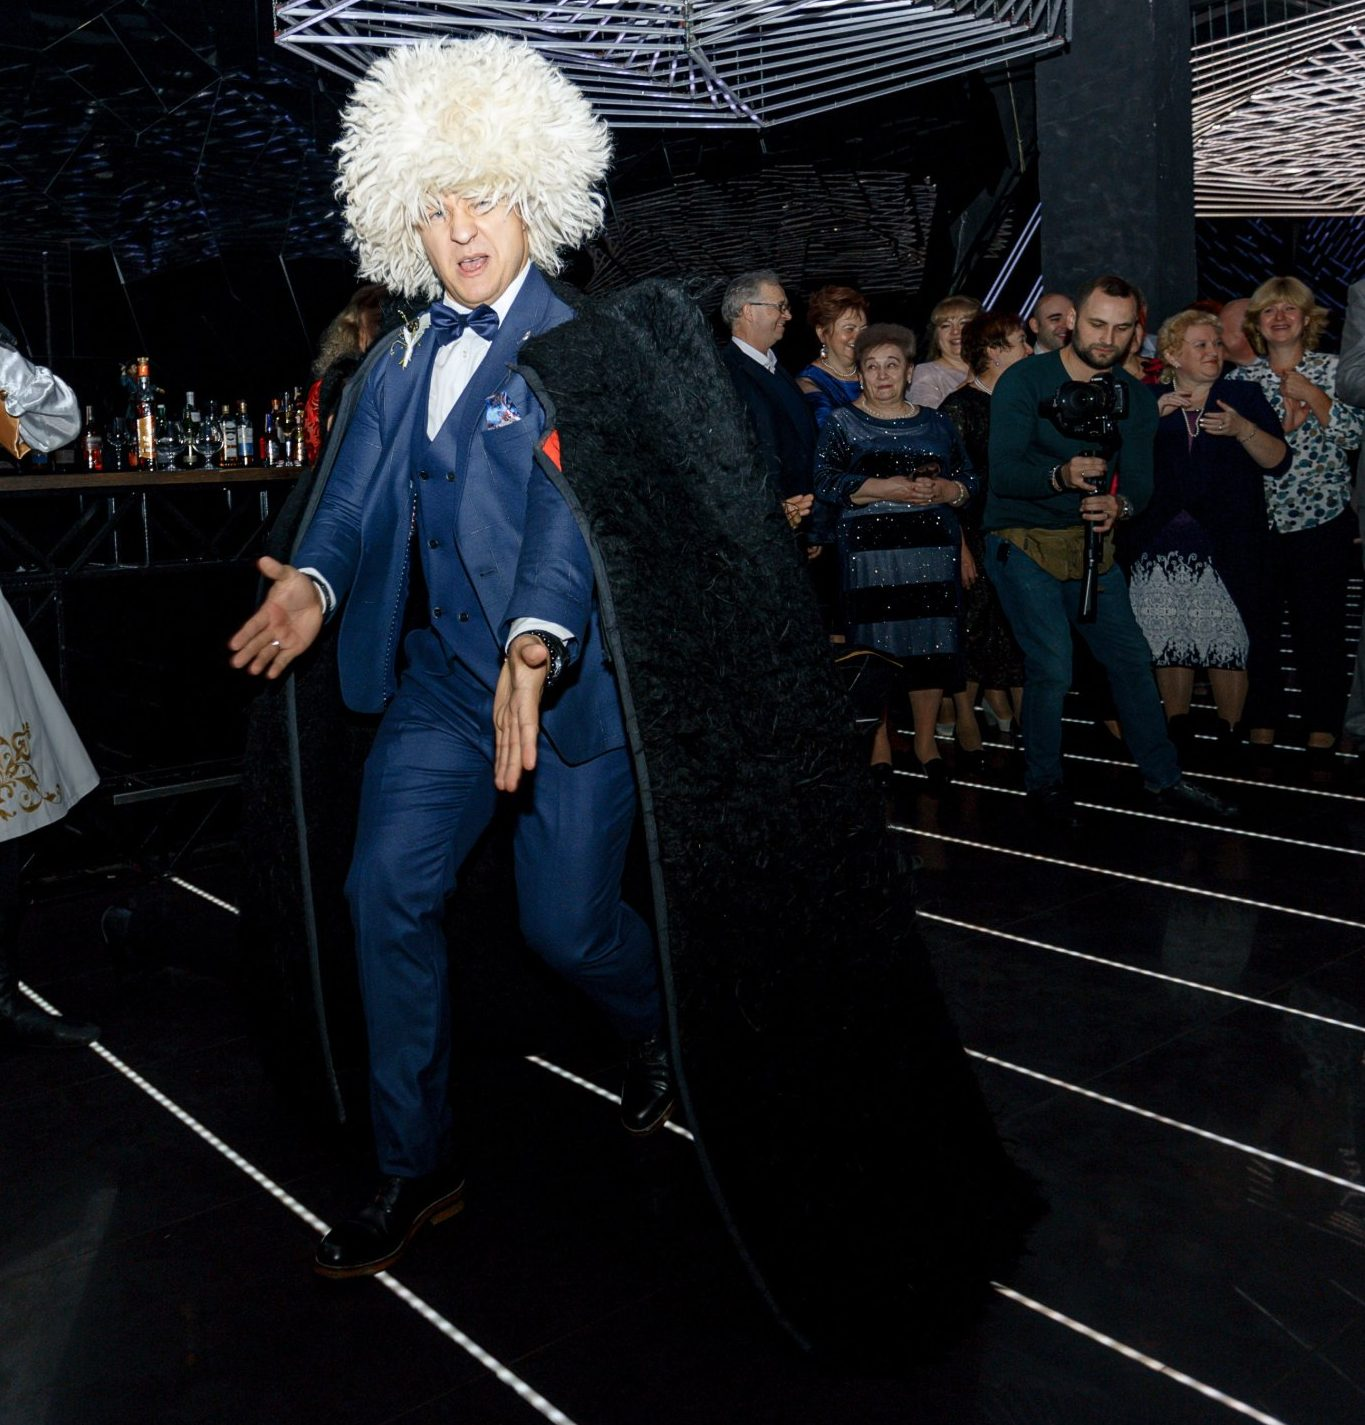
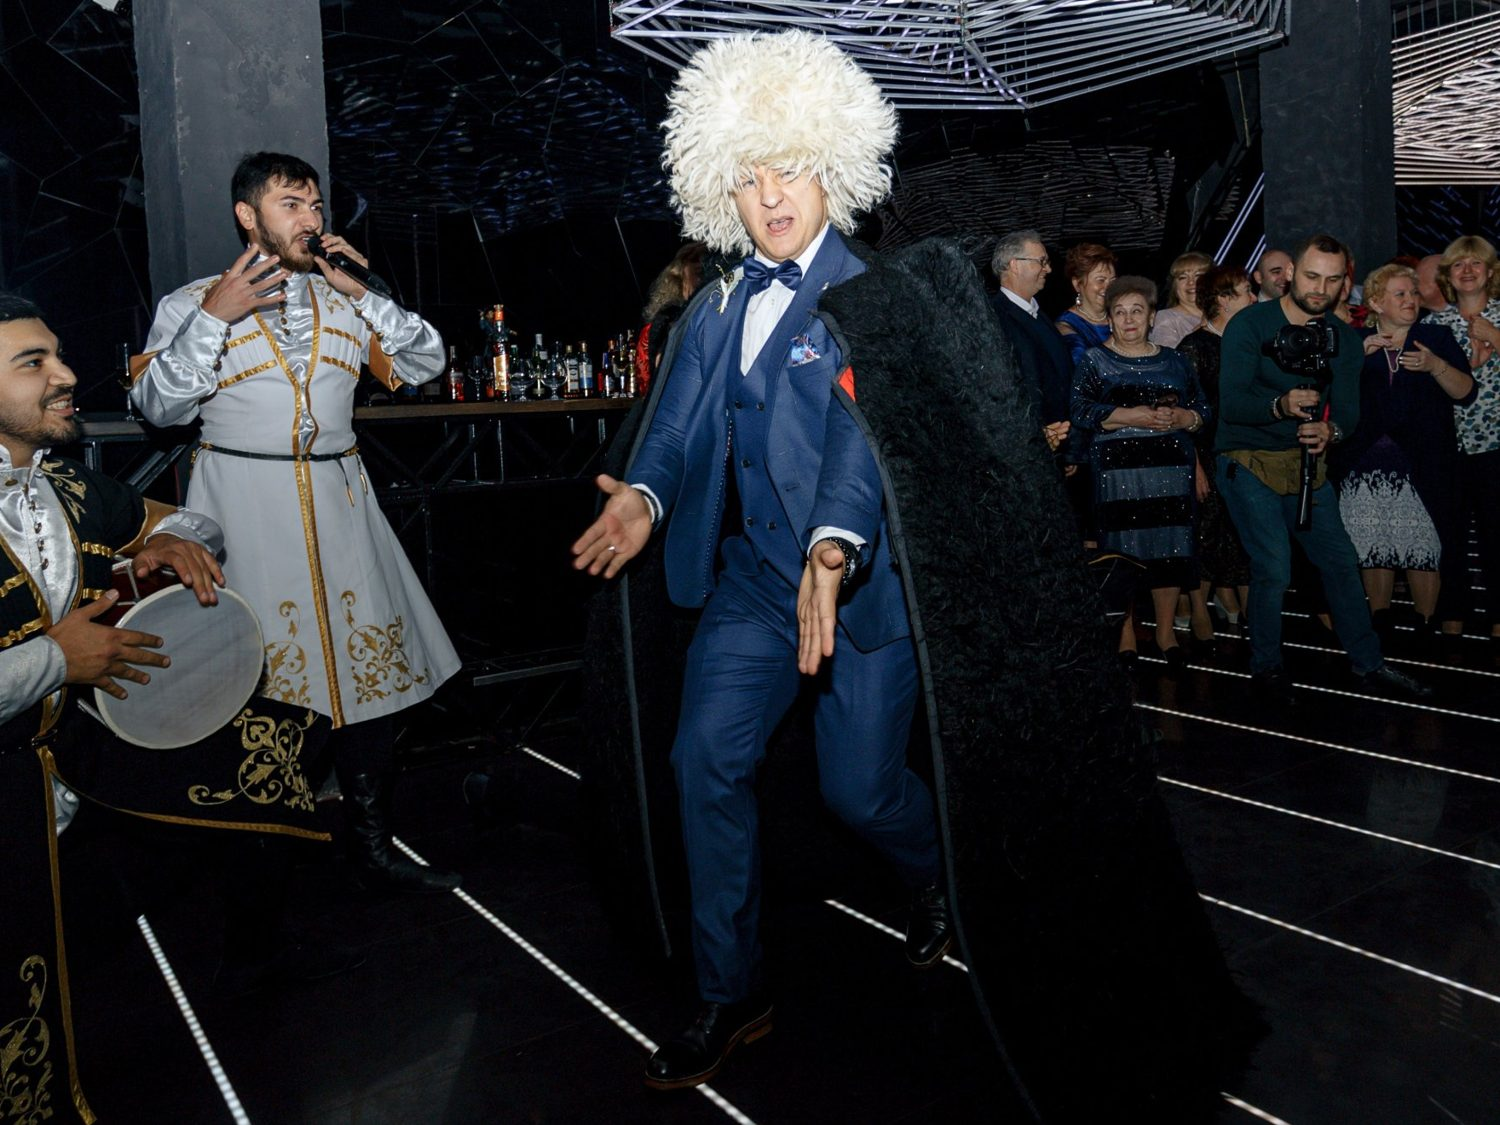
Themes: center Caucasian photo
Claude-Session: https://claude.ai/code/session_01EYGUqZub8BpVHSEPrvFqkA

diff --git a/themes.html b/themes.html
@@ -27,7 +27,7 @@
   </div>
   <div class="phead__word" aria-hidden="true">Образ</div>
 </section>
-<section class="sec sec--tight"><div class="wrap"><div class="tk"><div class="tk__row sr" style="grid-template-columns:90px minmax(0,4fr) minmax(0,3fr) minmax(0,3fr);align-items:center"><span class="tk__n">01</span><h3>Мексиканский</h3><p>Костюмированный образ ведущего, манера подачи и элементы программы под тему «мексиканский».</p><figure class="gi  sr" style="aspect-ratio:4/3"><img src="img/p/74.jpg" alt="Образ: Мексиканский" loading="lazy" style="object-position:50% 30%"></figure></div><div class="tk__row sr" style="grid-template-columns:90px minmax(0,4fr) minmax(0,3fr) minmax(0,3fr);align-items:center"><span class="tk__n">02</span><h3>Кавказский</h3><p>Костюмированный образ ведущего, манера подачи и элементы программы под тему «кавказский».</p><figure class="gi  sr" style="aspect-ratio:4/3"><img src="img/p/91.jpg" alt="Образ: Кавказский" loading="lazy" style="object-position:50% 8%"></figure></div><div class="tk__row sr" style="grid-template-columns:90px minmax(0,4fr) minmax(0,3fr) minmax(0,3fr);align-items:center"><span class="tk__n">03</span><h3>Гангстерский</h3><p>Костюмированный образ ведущего, манера подачи и элементы программы под тему «гангстерский».</p><figure class="gi  sr" style="aspect-ratio:4/3"><img src="img/p/90.jpg" alt="Образ: Гангстерский" loading="lazy" style="object-position:50% 30%"></figure></div><div class="tk__row sr" style="grid-template-columns:90px minmax(0,4fr) minmax(0,3fr) minmax(0,3fr);align-items:center"><span class="tk__n">04</span><h3>Ретро</h3><p>Костюмированный образ ведущего, манера подачи и элементы программы под тему «ретро».</p><figure class="gi  sr" style="aspect-ratio:4/3"><img src="img/p/70.jpg" alt="Образ: Ретро" loading="lazy" style="object-position:40% 30%"></figure></div><div class="tk__row sr" style="grid-template-columns:90px minmax(0,4fr) minmax(0,6fr)"><span class="tk__n">05</span><h3>Ваша идея</h3><p>Совершенно необычная концепция? Придумаем вместе и разработаем отдельно под ваш праздник и вашу компанию.</p></div>
+<section class="sec sec--tight"><div class="wrap"><div class="tk"><div class="tk__row sr" style="grid-template-columns:90px minmax(0,4fr) minmax(0,3fr) minmax(0,3fr);align-items:center"><span class="tk__n">01</span><h3>Мексиканский</h3><p>Костюмированный образ ведущего, манера подачи и элементы программы под тему «мексиканский».</p><figure class="gi  sr" style="aspect-ratio:4/3"><img src="img/p/74.jpg" alt="Образ: Мексиканский" loading="lazy" style="object-position:50% 30%"></figure></div><div class="tk__row sr" style="grid-template-columns:90px minmax(0,4fr) minmax(0,3fr) minmax(0,3fr);align-items:center"><span class="tk__n">02</span><h3>Кавказский</h3><p>Костюмированный образ ведущего, манера подачи и элементы программы под тему «кавказский».</p><figure class="gi  sr" style="aspect-ratio:4/3"><img src="img/p/91.jpg" alt="Образ: Кавказский" loading="lazy" style="object-position:50% 50%"></figure></div><div class="tk__row sr" style="grid-template-columns:90px minmax(0,4fr) minmax(0,3fr) minmax(0,3fr);align-items:center"><span class="tk__n">03</span><h3>Гангстерский</h3><p>Костюмированный образ ведущего, манера подачи и элементы программы под тему «гангстерский».</p><figure class="gi  sr" style="aspect-ratio:4/3"><img src="img/p/90.jpg" alt="Образ: Гангстерский" loading="lazy" style="object-position:50% 30%"></figure></div><div class="tk__row sr" style="grid-template-columns:90px minmax(0,4fr) minmax(0,3fr) minmax(0,3fr);align-items:center"><span class="tk__n">04</span><h3>Ретро</h3><p>Костюмированный образ ведущего, манера подачи и элементы программы под тему «ретро».</p><figure class="gi  sr" style="aspect-ratio:4/3"><img src="img/p/70.jpg" alt="Образ: Ретро" loading="lazy" style="object-position:40% 30%"></figure></div><div class="tk__row sr" style="grid-template-columns:90px minmax(0,4fr) minmax(0,6fr)"><span class="tk__n">05</span><h3>Ваша идея</h3><p>Совершенно необычная концепция? Придумаем вместе и разработаем отдельно под ваш праздник и вашу компанию.</p></div>
 </div><p class="note" style="color:var(--muted);margin-top:26px">Это не готовый шаблон, который повторяется из мероприятия в мероприятие. Стоимость костюмов и индивидуальной постановки согласуется отдельно.</p></div></section><section class="sec sec--dark cta">
   <div class="wrap">
     <div class="kick">Контакты</div>

diff --git a/gen.py b/gen.py
@@ -277,7 +277,7 @@ themes=[('Мексиканский','Яркий, жаркий, с характе
 th=phead('Образы',['Праздник в','<em>любом образе</em>'],'Под выбранную тему готовлю костюмированный образ ведущего, манеру подачи, тематические элементы программы и развлечения. Каждую концепцию разрабатываем отдельно.','Образы','Образ')
 th+='<section class="sec sec--tight"><div class="wrap"><div class="tk">'
 for i,(n,d) in enumerate(themes,1):
-    pic={1:(74,'50% 30%'),2:(91,'50% 8%'),3:(90,'50% 30%'),4:(70,'40% 30%')}.get(i)
+    pic={1:(74,'50% 30%'),2:(91,'50% 50%'),3:(90,'50% 30%'),4:(70,'40% 30%')}.get(i)
     box=im(pic[0],'Образ: '+n,'4/3',pos=pic[1]) if pic else '<div class="ph" style="aspect-ratio:4/3"><span>Фото образа</span></div>'
     th+=f'<div class="tk__row sr" style="grid-template-columns:90px minmax(0,4fr) minmax(0,3fr) minmax(0,3fr);align-items:center"><span class="tk__n">{i:02d}</span><h3>{n}</h3><p>Костюмированный образ ведущего, манера подачи и элементы программы под тему «{n.lower()}».</p>{box}</div>'
 th+=f'''<div class="tk__row sr" style="grid-template-columns:90px minmax(0,4fr) minmax(0,6fr)"><span class="tk__n">05</span><h3>Ваша идея</h3><p>Совершенно необычная концепция? Придумаем вместе и разработаем отдельно под ваш праздник и вашу компанию.</p></div>
